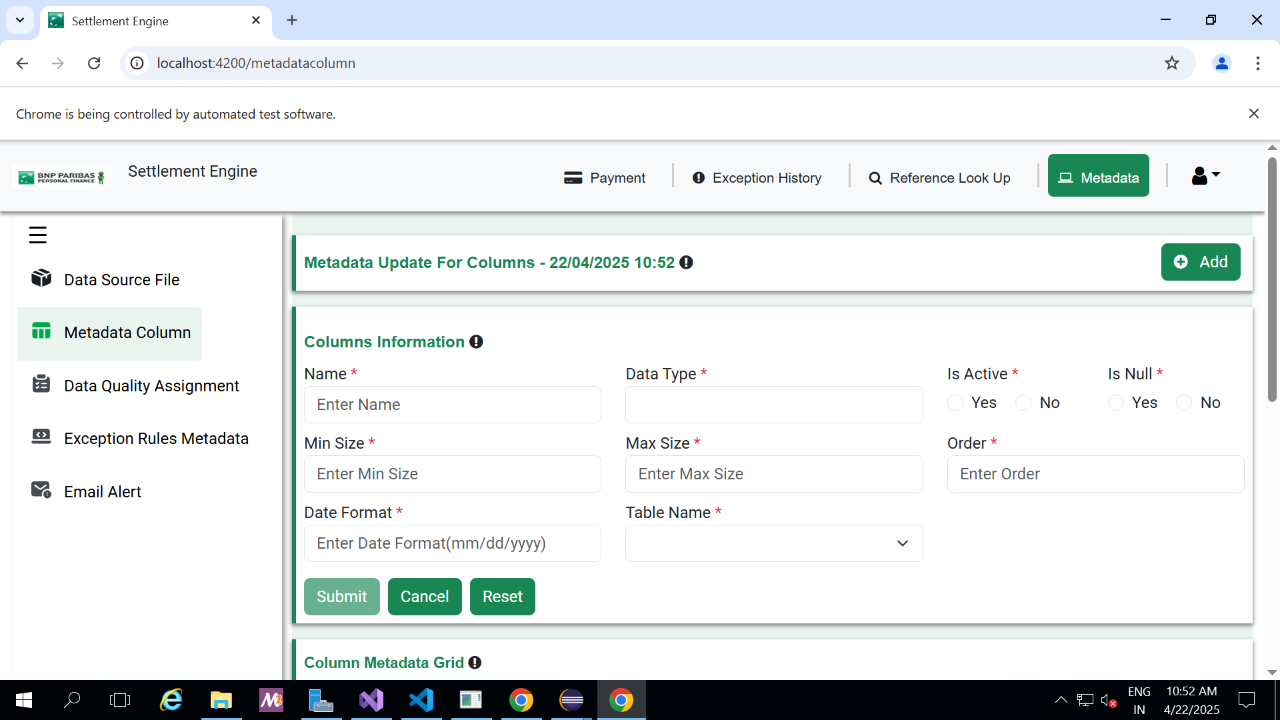
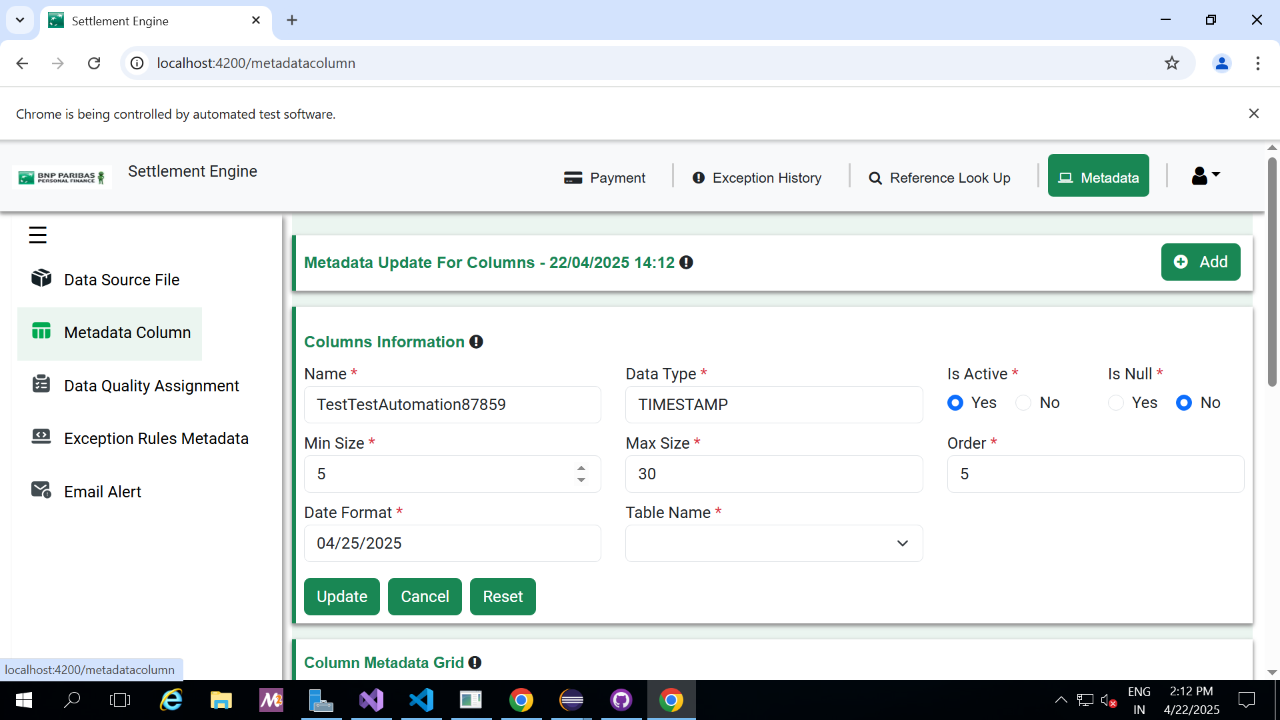
Meta data

diff --git a/Settlement_Engine_BDD/src/test/java/steps/MetaDataColumnsSteps.java b/Settlement_Engine_BDD/src/test/java/steps/MetaDataColumnsSteps.java
@@ -114,90 +114,74 @@ public class MetaDataColumnsSteps {
 
 	@When("the user click on Cancel button for the Metadata Column")
 	public void the_user_click_on_cancel_button_for_the_metadata_column() {
-		driver.findElement(By.xpath("//button[contains(text(),'Cancel')]")).click();
+		MetaDataColumnsTab.clickMDCCancelButton();
 		System.out.println("The user is able to close the Add New page");
 		commonUtilities.screenshot();
 	}
 
 	@Then("Add New Pop up should be closed for the Metadata Column")
 	public void add_new_pop_up_should_be_closed_for_the_metadata_column() {
-		driver.findElement(By.xpath("//div[@data-ref='rootWrapperBody']")).isDisplayed();
+		MetaDataColumnsTab.verifyMDCAssignmentGridVisibleandDataAssignmentCategoryNotVisible();
 	}
 
 	@When("The User click the edit icon for the any Metadata Column")
 	public void the_user_click_the_edit_icon_for_the_any_metadata_column() {
-		driver.findElement(By.xpath("(//i[@data-action='edit'])[1]")).click();
-		commonUtilities.screenshot();
+		MetaDataColumnsTab.clickMDCEditButton();
 	}
 
 	@Then("The User should see the edit modal open Metadata Column")
 	public void the_user_should_see_the_edit_modal_open_metadata_column() {
-		boolean file = driver.findElement(By.xpath("//*[text()='Columns Information ']")).isDisplayed();
-		Assert.assertTrue(file);
-		String actual = driver.findElement(By.xpath("//*[text()='Columns Information ']")).getText();
-		Assert.assertEquals("Columns Information", actual);		
+		MetaDataColumnsTab.verifyMDCCategoryTextVisible();	
 		System.out.println("The edit modal is displayed");
 		commonUtilities.screenshot();
 	}
 
 	@Then("the user update the any field for the Metadata Column")
 	public void the_user_update_the_any_field_for_the_metadata_column() {
-		driver.findElement(By.xpath("//input[@formcontrolname='columnName']")).clear();
-		driver.findElement(By.xpath("//input[@formcontrolname='maxSize']")).sendKeys("40");
+		MetaDataColumnsTab.editValueField();
 	}
 
 	@Then("the user should see click on the Update Button for the Metadata Column")
 	public void the_user_should_see_click_on_the_update_button_for_the_metadata_column() {
-	    
+		MetaDataColumnsTab.clickMDCUpdateButton();
 	}
 
 	@Then("the user should see the updated {string} in the file list for the Metadata Column")
 	public void the_user_should_see_the_updated_in_the_file_list_for_the_metadata_column(String string) throws InterruptedException {
-		driver.findElement(By.xpath("//button[contains(text(),'Update')]")).click();
+		MetaDataColumnsTab.verifyMDCSuccessPopupMessageUpdate();
 		System.out.println("The user is able to click on the Update Button");
-		commonUtilities.screenshot();
-		Thread.sleep(2000);
+		
 	}
 
 	@When("The User click the delete icon for the any Metadata Column")
 	public void the_user_click_the_delete_icon_for_the_any_metadata_column() {
-		driver.findElement(By.xpath("(//i[@data-action='delete'])[1]")).click();
-		commonUtilities.screenshot();
+		MetaDataColumnsTab.clickMDCDeleteButton();
 	}
 
 	@Then("The User should see a confirmation pop-up with title {string} for the Metadata Column")
 	public void the_user_should_see_a_confirmation_pop_up_with_title_for_the_metadata_column(String string) throws InterruptedException {
-		driver.findElement(By.xpath("//div[@class='modal-content']")).isDisplayed();
-		System.out.println("The user is able to see the confirmation pop-up");
-		Thread.sleep(2000);
-		commonUtilities.screenshot();
+		MetaDataColumnsTab.verifyMDCDeleteConfirmationPopupMessage();
 	}
 
 	@Then("The User should see {string} message for the Metadata Column")
 	public void the_user_should_see_message_for_the_metadata_column(String string) throws InterruptedException {
-		String actual = driver.findElement(By.xpath("//div[text()=' Are you sure you want to delete ']")).getText();
-		Assert.assertEquals("Are you sure you want to delete", actual);
-		System.out.println("The user is able to see message in the confirmation pop-up");
-		Thread.sleep(2000);
-		commonUtilities.screenshot();
+		MetaDataColumnsTab.clickMDCDeleteConfirmationPopupConfirmButton();
 	}
 
 	@When("The User should see a confirmation pop-up with Cancel and Confirm buttons for the Metadata Column")
 	public void the_user_should_see_a_confirmation_pop_up_with_cancel_and_confirm_buttons_for_the_metadata_column() {
-		driver.findElement(By.xpath("//button[contains(text(),'Confirm')]")).isDisplayed();
-		driver.findElement(By.xpath("//button[contains(text(),'Cancel')]")).isDisplayed();
-		System.out.println("The user is able to see the Confirm and Cancel button in the confirmation pop-up");
+		MetaDataColumnsTab.verifyMDCDeleteConfirmationPopupCancelButton();
+		MetaDataColumnsTab.verifyMDCDeleteConfirmationPopupConfirmButton();
 	}
 
 	@When("The User confirm the deletion for the Metadata Column")
 	public void the_user_confirm_the_deletion_for_the_metadata_column() {
-	    driver.findElement(By.xpath("//button[contains(text(),'Confirm')]")).click();
+		MetaDataColumnsTab.clickMDCDeleteConfirmationPopupConfirmButton();
 	}
 
 	@Then("the file should be removed from the table for the Metadata Column")
 	public void the_file_should_be_removed_from_the_table_for_the_metadata_column() {
-		driver.findElement(By.xpath("//div[@data-ref='rootWrapperBody']")).isDisplayed();
-		driver.quit();
+		MetaDataColumnsTab.verifyMDCAssignmentGridVisibleandDataAssignmentCategoryNotVisible();
 	}
 
 

diff --git a/Settlement_Engine_BDD/src/test/java/tabs/MetaDataColumnsTab.java b/Settlement_Engine_BDD/src/test/java/tabs/MetaDataColumnsTab.java
@@ -5,6 +5,7 @@ import java.io.IOException;
 import java.time.Duration;
 
 import org.junit.Assert;
+import org.openqa.selenium.By;
 import org.openqa.selenium.WebDriver;
 import org.openqa.selenium.support.ui.ExpectedConditions;
 import org.openqa.selenium.support.ui.Select;
@@ -114,8 +115,11 @@ public class MetaDataColumnsTab {
 		driver.findElement(MetaDataColumnsLocators.MDCColumnOrder).sendKeys(columnOrder);
 		wait.until(ExpectedConditions.visibilityOfElementLocated(MetaDataColumnsLocators.MDCColumnDateFormat));
 		driver.findElement(MetaDataColumnsLocators.MDCColumnDateFormat).sendKeys(columnDateFormat);
-		wait.until(ExpectedConditions.visibilityOfElementLocated(MetaDataColumnsLocators.MDCTableNameDropdown));
-		driver.findElement(MetaDataColumnsLocators.MDCTableNameDropdown).sendKeys(tableName);
+		driver.manage().timeouts().implicitlyWait(Duration.ofSeconds(5));
+		wait.until(ExpectedConditions.visibilityOfElementLocated(MetaDataColumnsLocators.MDCTableNameDropdown)).click();
+		Select datatypedropdown1 = new Select(driver.findElement(MetaDataColumnsLocators.MDCTableNameDropdown));
+		datatypedropdown1.selectByIndex(2);
+
 		System.out.println("The user is able to enter the field value in Columns Information");
 	}
 	
@@ -137,7 +141,7 @@ public class MetaDataColumnsTab {
 	public void verifyMDCSuccessPopupMessageUpdate() {
 		wait.until(ExpectedConditions.visibilityOfElementLocated(MetaDataColumnsLocators.MDCUpdatePopupMessage));
 		String successMessage = driver.findElement(MetaDataColumnsLocators.MDCUpdatePopupMessage).getText();
-		Assert.assertEquals(successMessage, "Record has been updated successfully");
+		Assert.assertEquals(successMessage, "Record has been updated successfully..!");
 		System.out.println("The user is able to verify the Success Popup Message");
 	}
 	
@@ -169,8 +173,10 @@ public class MetaDataColumnsTab {
 	
 	//Click on Cancel Button
 	public    void clickMDCCancelButton() {
-		wait.until(ExpectedConditions.visibilityOfElementLocated(MetaDataColumnsLocators.MDCCancelButton));
-		driver.findElement(MetaDataColumnsLocators.MDCCancelButton).click();
+		driver.manage().timeouts().implicitlyWait(Duration.ofSeconds(5));
+		wait.until(ExpectedConditions.visibilityOfElementLocated(MetaDataColumnsLocators.MDCColumnInformationVisible));
+		boolean grid = driver.findElement(MetaDataColumnsLocators.MDCColumnInformationVisible).isDisplayed();
+		Assert.assertTrue(grid);
 		System.out.println("The user is able to click on Cancel Button");
 	}
 	
@@ -189,13 +195,18 @@ public class MetaDataColumnsTab {
 	}
 	
 	//Verify Assignment Category Text is Visible
-	public    void verifyMDCCategoryTextVisible() {
+	public void verifyMDCCategoryTextVisible() {
 		wait.until(ExpectedConditions.visibilityOfElementLocated(MetaDataColumnsLocators.MDCColumnInformationVisible));
 		boolean category = driver.findElement(MetaDataColumnsLocators.MDCColumnInformationVisible).isDisplayed();
 		Assert.assertTrue(category);
 		System.out.println("The user is able to verify the Column Information Text is visible");
 	}
 	
+	public void editValueField()
+	{
+		wait.until(ExpectedConditions.visibilityOfElementLocated(MetaDataColumnsLocators.MDCMaxSize)).sendKeys("40");;
+		
+	}
 	//Click on Delete Button
 	public    void clickMDCDeleteButton() {
 		wait.until(ExpectedConditions.visibilityOfElementLocated(MetaDataColumnsLocators.MDCDeleteButton));
@@ -243,12 +254,9 @@ public class MetaDataColumnsTab {
 	}
 	
 	//Verify the Metadata Column Grid is Visible and Column Information is Not Visible
-	public    void verifyMDCAssignmentGridVisibleandDataAssignmentCategoryNotVisible() {
-		wait.until(ExpectedConditions.visibilityOfElementLocated(MetaDataColumnsLocators.MDCGridVisible));
-		boolean grid = driver.findElement(MetaDataColumnsLocators.MDCGridVisible).isDisplayed();
-		Assert.assertTrue(grid);
-		boolean category = driver.findElement(MetaDataColumnsLocators.MDCGridVisible).isDisplayed();
-		Assert.assertFalse(category);
+	public void verifyMDCAssignmentGridVisibleandDataAssignmentCategoryNotVisible() {
+		boolean category = driver.findElement(MetaDataColumnsLocators.MDCCategoryTextVisibleGrid).isDisplayed();
+		Assert.assertTrue(category);
 		System.out.println("The user is able to verify the Metadata Column Grid is visible and Column Information is not visible");
 	}
 	

diff --git a/Settlement_Engine_BDD/src/test/java/locators/MetaDataColumnsLocators.java b/Settlement_Engine_BDD/src/test/java/locators/MetaDataColumnsLocators.java
@@ -29,7 +29,7 @@ public class MetaDataColumnsLocators {
 	public static final By MDCCancelButton = By.xpath("//button[contains(text(),'Cancel')]");
 	public static final By MDCUpdateButton = By.xpath("//button[contains(text(),'Update')]");
 	public static final By MDCColumnInformationVisible = By.xpath("//*[text()='Columns Information ']");
-	
+	public static final By MDCCategoryTextVisibleGrid = By.xpath("//span[contains(text(),'Column Metadata Grid')]");
 	/******MetaData Column Grid******/
 	public static final By MDCGridVisible = By.xpath("//div[@data-ref='rootWrapperBody']");
 	public static final By MDCEditButton = By.xpath("(//i[@data-action='edit'])[1]");

diff --git a/Settlement_Engine_BDD/src/test/java/steps/DataSourceFileSteps.java b/Settlement_Engine_BDD/src/test/java/steps/DataSourceFileSteps.java
@@ -75,7 +75,8 @@ public class DataSourceFileSteps {
 				DataSourceFileConstants.FILE_PATH_RAW.getValue(), DataSourceFileConstants.FILE_PATH_CLEANSED.getValue(),
 				DataSourceFileConstants.FILE_MAX_SIZE.getValue(), DataSourceFileConstants.FILE_TABLE_NAME.getValue(),
 				DataSourceFileConstants.FILE_DELIMETER.getValue(),
-				DataSourceFileConstants.COLUMN_IDENTIFIER.getValue());		
+				DataSourceFileConstants.COLUMN_IDENTIFIER.getValue());
+		
 		System.out.println("The user is able to insert the data in the all fields");
 	}
 
